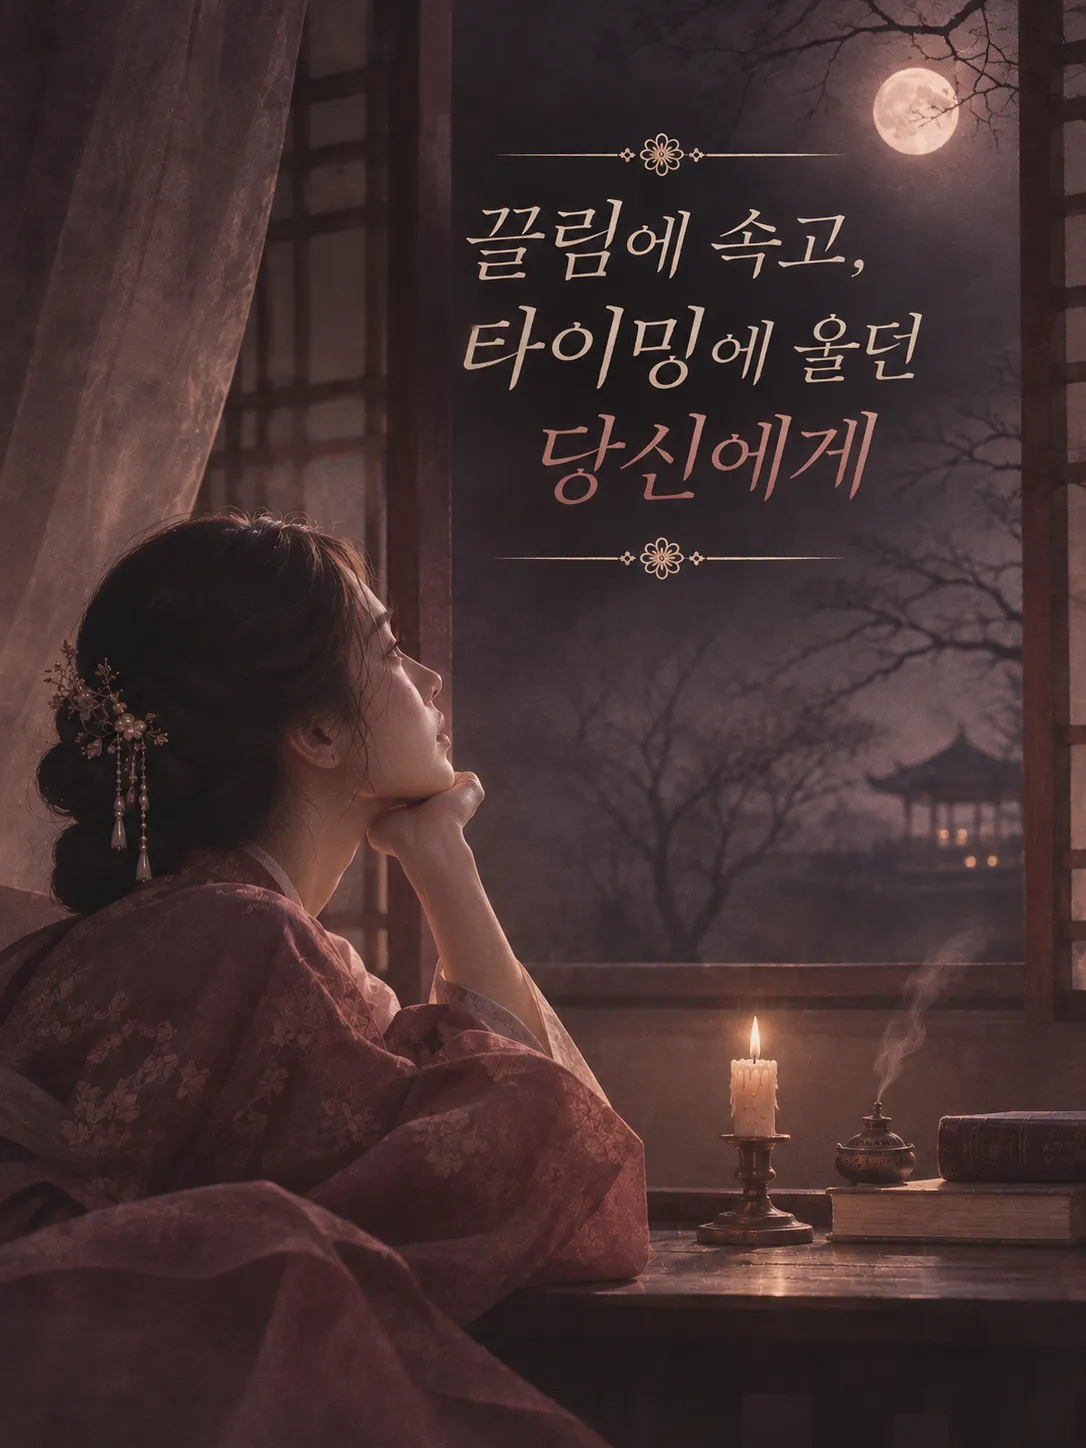
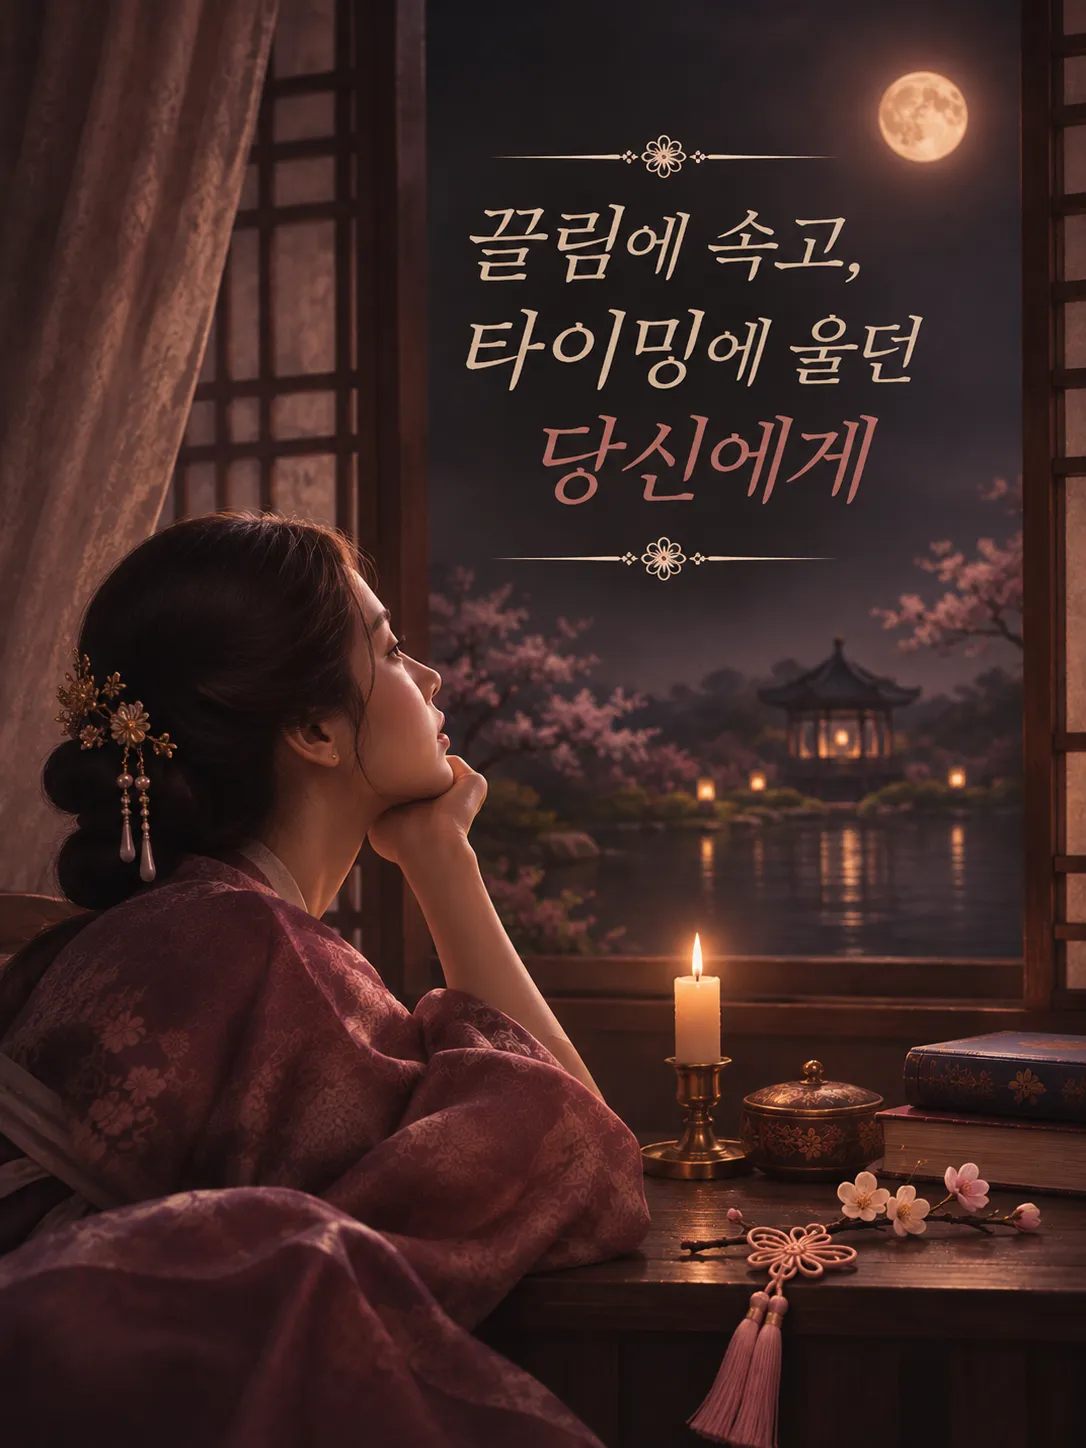
feat: 연애 리포트 AWAKENING/DISCOVERY 순서 조정, 중복 문구 정리 및 lost in love 새 이미지 갱신(?v=2)

diff --git a/app/reports/baekdohwa-report/page.tsx b/app/reports/baekdohwa-report/page.tsx
@@ -63,7 +63,7 @@ const DISCOVERY_STORY_IMAGE_CONFIG = {
 }
 
 const AWAKENING_STORY_IMAGE_CONFIG = {
-  src: '/image/lovereport/lost%20in%20love.webp', // 새로운 lost in love 3:4 세로 이미지
+  src: '/image/lovereport/lost%20in%20love.webp?v=2', // 새로운 lost in love 3:4 세로 이미지 (캐시 갱신 v=2)
   alt: '왜 나는 사랑할수록 나 자신을 잃어버릴까 - lost in love',
   width: 1086,
   height: 1448,
@@ -256,7 +256,62 @@ export default function BaekdohwaReportPage() {
             <LoveCoreDifferentiation />
 
             {/* ══════════════════════════════════════════════════════════════════════ */}
-            {/* [교차 스토리 1] STEP 02. DISCOVERY (좌측 이미지 + 우측 텍스트) */}
+            {/* [교차 스토리 1] THE MOMENT OF AWAKENING (좌측 텍스트 + 우측 거울 이미지) */}
+            {/* ══════════════════════════════════════════════════════════════════════ */}
+            <section className="mb-24 md:mb-32">
+              <Reveal>
+                <div className="grid grid-cols-1 lg:grid-cols-12 gap-8 lg:gap-14 items-center">
+                  {/* 좌측 55%: 라벨 + 제목 + 아픔과 공감 문구 */}
+                  <div className="lg:col-span-7 space-y-6 text-left break-keep order-2 lg:order-1">
+                    <div>
+                      <span className="block font-elegant text-[12pt] font-semibold tracking-[0.2em] text-[#D9A8A7] uppercase mb-4">
+                        THE MOMENT OF AWAKENING
+                      </span>
+                      <h2 className="text-2xl md:text-[34px] lg:text-[36px] font-elegant font-bold text-white mb-6 leading-[1.3] break-keep">
+                        왜 나는 사랑할수록,<br />
+                        <span className="gradient-text-love">나 자신을 잃어버리게 될까요?</span>
+                      </h2>
+                    </div>
+
+                    <div className="space-y-4 text-[17px] md:text-[18px] text-[#EDE6DA] opacity-85 font-light leading-[1.8] break-keep">
+                      <p>
+                        상대의 말 한마디에 하루의 기분이 달라지고,<br />
+                        답장 하나에 안도했다가 다시 불안해지는 마음.
+                      </p>
+                      <p>
+                        사랑받고 싶어서 더 많이 맞춰주고 더 많이 이해했지만,<br />
+                        어느 순간 관계의 중심에는 상대만 남아 있었습니다.
+                      </p>
+                    </div>
+
+                    <div className="pt-6 border-t border-[#B49A70]/25 mt-6">
+                      <p className="text-[#FAF7F2] font-elegant font-medium text-[18px] md:text-[19px] leading-[1.75] break-keep">
+                        어쩌면 지금 우리에게 필요한 것은,<br className="hidden sm:inline" />
+                        더 사랑받기 위해 애쓰는 방법이 아니라<br />
+                        <span className="text-[#D9A8A7] font-semibold">나 자신의 중심을 되찾는 일</span>인지도 모릅니다.
+                      </p>
+                    </div>
+                  </div>
+
+                  {/* 우측 45%: 새 거울 이미지 (lost in love.webp, 원본 3:4 세로 비율 유지) */}
+                  <div className="lg:col-span-5 w-full flex flex-col items-center order-1 lg:order-2">
+                    <div className="group relative w-full aspect-[3/4] rounded-[28px] md:rounded-[36px] overflow-hidden border border-white/10 shadow-2xl bg-[#130917] flex items-center justify-center transition-all duration-300 hover:border-[#D4B2A7]/40">
+                      <Image
+                        src={AWAKENING_STORY_IMAGE_CONFIG.src}
+                        alt={AWAKENING_STORY_IMAGE_CONFIG.alt}
+                        width={AWAKENING_STORY_IMAGE_CONFIG.width}
+                        height={AWAKENING_STORY_IMAGE_CONFIG.height}
+                        className="w-full h-full object-contain object-center group-hover:scale-[1.02] transition-transform duration-700 ease-out"
+                        priority
+                      />
+                    </div>
+                  </div>
+                </div>
+              </Reveal>
+            </section>
+
+            {/* ══════════════════════════════════════════════════════════════════════ */}
+            {/* [교차 스토리 2] STEP 02. DISCOVERY (좌측 이미지 + 우측 텍스트) */}
             {/* ══════════════════════════════════════════════════════════════════════ */}
             <section className="mb-24 md:mb-32">
               <Reveal>
@@ -275,7 +330,7 @@ export default function BaekdohwaReportPage() {
                     </div>
                   </div>
 
-                  {/* 우측 55%: 라벨 + 제목 + 본문 스토리 (외곽 카드 배경 없이 페이지 배경에 자연스럽게 배치) */}
+                  {/* 우측 55%: 라벨 + 제목 + 소름 돋는 발견과 선천코드 처방 스토리 */}
                   <div className="lg:col-span-7 space-y-6 text-left break-keep">
                     <div>
                       <span className="block font-elegant text-[12pt] font-semibold tracking-[0.2em] text-[#D9A8A7] uppercase mb-4">
@@ -287,64 +342,27 @@ export default function BaekdohwaReportPage() {
                       </h2>
                     </div>
 
+                    {/* 발견의 서사 */}
                     <div className="space-y-4 text-[17px] md:text-[18px] text-[#EDE6DA] opacity-85 font-light leading-[1.8] break-keep">
                       <p>
-                        어긋난 관계의 원인은 내 부족함이나 상대의 변덕 때문만은 아니었습니다.<br className="hidden sm:inline" />
-                        내가 타고난 기질과 감정의 에너지 흐름을 알지 못했을 뿐입니다.
+                        그때는 우연인 줄 알았습니다.
                       </p>
                       <p>
-                        당신에게 필요한 것은 또 하나의 가벼운 연애운 풀이가 아닐 수 있습니다.<br />
-                        내가 누구에게 끌리고, 어떤 순간에 무너지며, 왜 같은 선택을 반복하는지 읽어내는 일.
+                        왜 비슷한 결의 사람에게 마음을 빼앗겼는지,<br className="hidden sm:inline" />
+                        왜 이별의 순간과 상처받는 방식이 놀라울 만큼 닮아 있었는지.
                       </p>
                       <p>
-                        선천코드 연애 리포트는 타고난 기질을 바탕으로 당신의 관계 반복 패턴을 정밀하게 탐색하고, 스스로 지켜야 할 관계의 기준과 실천할 수 있는 행동 방향을 명확하게 제시합니다.
+                        사주를 깊이 들여다보면 지나온 선택과 관계를 새로운 관점으로 이해하게 되는 순간이 있습니다.
+                      </p>
+                      <p className="text-[#FAF7F2] font-medium">
+                        서로 다른 사랑 속에서 반복되던 나의 모습이 하나의 패턴으로 읽히기 시작하는 순간입니다.
                       </p>
                     </div>
 
-                    <div className="pt-6 border-t border-[#B49A70]/25 mt-6">
-                      <p className="text-[#FAF7F2] font-elegant font-medium text-[18px] md:text-[19px] leading-[1.75] break-keep">
-                        &ldquo;다음 연애까지 <span className="text-[#D9A8A7] font-semibold">똑같은 상처를 반복할 필요는 없습니다.</span>&rdquo;
-                      </p>
-                    </div>
-                  </div>
-                </div>
-              </Reveal>
-            </section>
-
-            {/* ══════════════════════════════════════════════════════════════════════ */}
-            {/* [교차 스토리 2] THE MOMENT OF AWAKENING (좌측 텍스트 + 우측 거울 이미지) */}
-            {/* ══════════════════════════════════════════════════════════════════════ */}
-            <section className="mb-24 md:mb-32">
-              <Reveal>
-                <div className="grid grid-cols-1 lg:grid-cols-12 gap-8 lg:gap-14 items-center">
-                  {/* 좌측 55%: 라벨 + 제목 + 본문 공감 & 통합 핵심 문구 */}
-                  <div className="lg:col-span-7 space-y-6 text-left break-keep order-2 lg:order-1">
-                    <div>
-                      <span className="block font-elegant text-[12pt] font-semibold tracking-[0.2em] text-[#D9A8A7] uppercase mb-4">
-                        THE MOMENT OF AWAKENING
-                      </span>
-                      <h2 className="text-2xl md:text-[34px] lg:text-[36px] font-elegant font-bold text-white mb-6 leading-[1.3] break-keep">
-                        왜 나는 사랑할수록,<br />
-                        <span className="gradient-text-love">나 자신을 잃어버리게 될까요?</span>
-                      </h2>
-                    </div>
-
-                    {/* 1. 상단 공감 문구 */}
-                    <div className="space-y-3.5 text-[17px] md:text-[18px] text-[#EDE6DA] opacity-85 font-light leading-[1.8] break-keep">
-                      <p>
-                        상대의 말 한마디에 하루의 기분이 달라지고,<br />
-                        답장 하나에 안도했다가 다시 불안해지는 마음.
-                      </p>
-                      <p>
-                        사랑받고 싶어서 더 많이 맞춰주고 더 많이 이해했지만,<br />
-                        어느 순간 관계의 중심에는 상대만 남아 있었습니다.
-                      </p>
-                    </div>
-
-                    {/* 2. 구분선 */}
+                    {/* 구분선 */}
                     <div className="pt-2 border-t border-[#B49A70]/25" />
 
-                    {/* 3. 통합된 핵심 분석 및 처방 문구 */}
+                    {/* 선천코드의 필요성과 핵심 처방 */}
                     <div className="space-y-4 text-[17px] md:text-[18px] leading-[1.8] break-keep">
                       <p className="text-[#FAF7F2] font-semibold">
                         당신에게 필요한 것은 또 하나의 가벼운 연애운 풀이가 아닙니다.
@@ -358,29 +376,15 @@ export default function BaekdohwaReportPage() {
                       </div>
 
                       <p className="text-[#EDE6DA] opacity-85 font-light">
-                        선천코드 연애 리포트는 타고난 기질을 바탕으로 관계에서 반복되는 패턴을 살펴보고, 나에게 필요한 사랑의 기준과 실천 방향을 제안합니다.
+                        백도화 선천코드 연애 리포트는 타고난 기질을 바탕으로 나의 관계 성향과 반복되는 선택을 살펴보고, 앞으로의 사랑에서 지켜야 할 기준과 실천 방향을 제안합니다.
                       </p>
                     </div>
 
-                    {/* 4. 마지막 강조 문구 */}
+                    {/* 마지막 핵심 강조 문구 */}
                     <div className="pt-4 border-t border-[#B49A70]/20">
                       <p className="font-elegant font-medium text-[18px] md:text-[19px] text-[#FAF7F2] leading-[1.75] break-keep">
                         &ldquo;<span className="text-[#D9A8A7] font-semibold">다음 연애까지 똑같은 상처를 반복할 필요는 없습니다.</span>&rdquo;
                       </p>
-                    </div>
-                  </div>
-
-                  {/* 우측 45%: 새 이미지 (lost in love.webp, 원본 3:4 세로 비율 유지) */}
-                  <div className="lg:col-span-5 w-full flex flex-col items-center order-1 lg:order-2">
-                    <div className="group relative w-full aspect-[3/4] rounded-[28px] md:rounded-[36px] overflow-hidden border border-white/10 shadow-2xl bg-[#130917] flex items-center justify-center transition-all duration-300 hover:border-[#D4B2A7]/40">
-                      <Image
-                        src={AWAKENING_STORY_IMAGE_CONFIG.src}
-                        alt={AWAKENING_STORY_IMAGE_CONFIG.alt}
-                        width={AWAKENING_STORY_IMAGE_CONFIG.width}
-                        height={AWAKENING_STORY_IMAGE_CONFIG.height}
-                        className="w-full h-full object-contain object-center group-hover:scale-[1.02] transition-transform duration-700 ease-out"
-                        priority
-                      />
                     </div>
                   </div>
                 </div>
